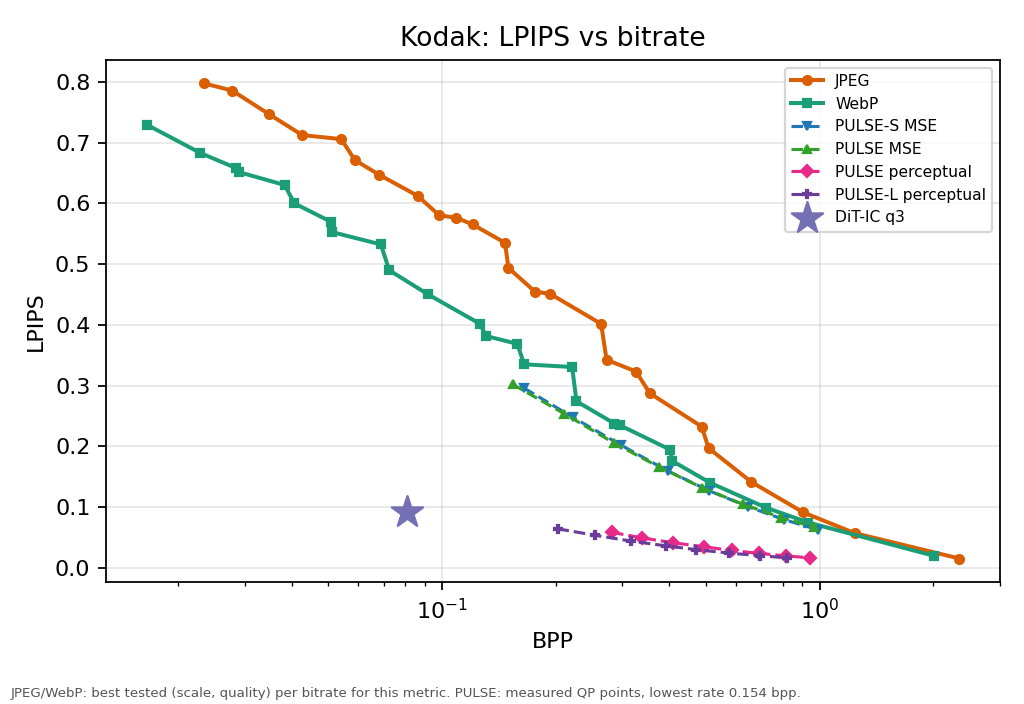
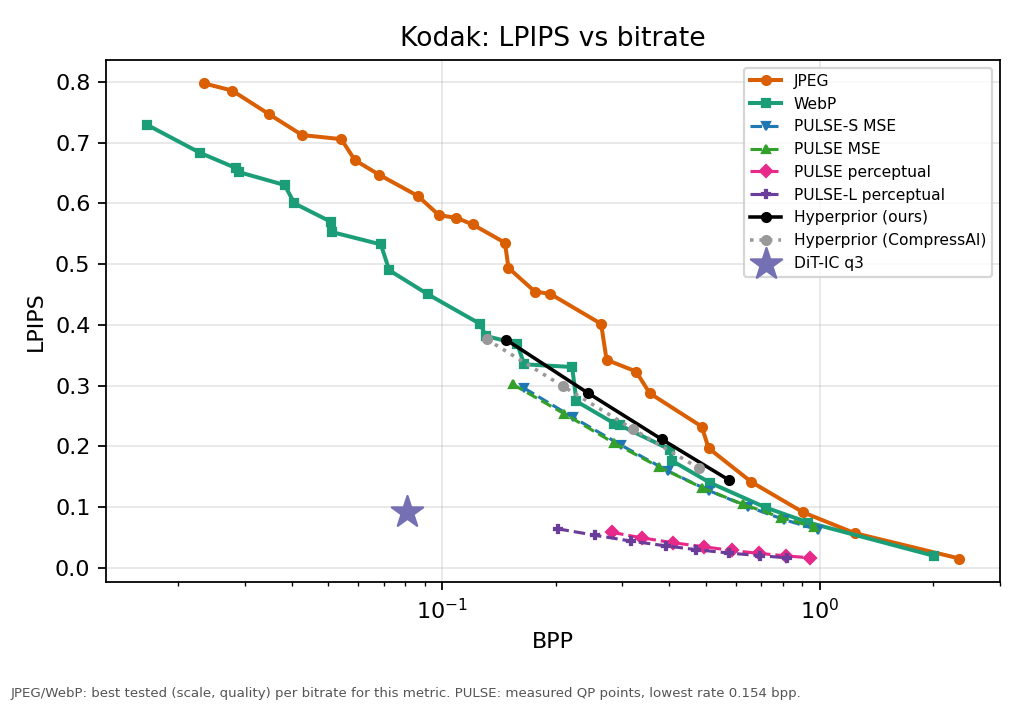
Add the scale-hyperprior curves to the rate-distortion plots

diff --git a/src/scripts/make_plots.py b/src/scripts/make_plots.py
@@ -2,6 +2,8 @@
 
 When src/result/metrics/pulse_kodak_summary.csv exists (src/scripts/run_pulse.py),
 the four PULSE models are added to the rate-distortion plots as QP curves.
+When src/result/metrics/hyperprior_kodak_summary.csv exists
+(src/scripts/run_hyperprior.py), the scale-hyperprior curves are added too.
 """
 
 from __future__ import annotations
@@ -47,6 +49,14 @@ PULSE_STYLES = {
     "pulse-l-perceptual": dict(color="#6a3d9a", marker="P", label="PULSE-L perceptual"),
 }
 PULSE_SUMMARY = METRICS_DIR / "pulse_kodak_summary.csv"
+
+# Scale hyperprior from src/scripts/run_hyperprior.py: trained by us, and the
+# official CompressAI weights of the same architecture as a reference.
+HYPERPRIOR_STYLES = {
+    "hyperprior-ours": dict(color="#000000", marker="o", linestyle="-", label="Hyperprior (ours)"),
+    "hyperprior-zoo": dict(color="#999999", marker="o", linestyle=":", label="Hyperprior (CompressAI)"),
+}
+HYPERPRIOR_SUMMARY = METRICS_DIR / "hyperprior_kodak_summary.csv"
 
 
 def read_csv(path: Path) -> list[dict]:
@@ -95,6 +105,16 @@ def main() -> None:
         pulse_rows = {model: rows for model, rows in pulse_rows.items() if rows}
     pulse_min_bpp = min((float(r["bpp"]) for rows in pulse_rows.values() for r in rows), default=0.0)
 
+    # Hyperprior is optional as well; one curve per codec, points ordered by lambda.
+    hyperprior_rows = {}
+    if HYPERPRIOR_SUMMARY.exists():
+        all_hyperprior = read_csv(HYPERPRIOR_SUMMARY)
+        hyperprior_rows = {
+            codec: sorted((r for r in all_hyperprior if r["codec"] == codec), key=lambda r: float(r["lmbda"]))
+            for codec in HYPERPRIOR_STYLES
+        }
+        hyperprior_rows = {codec: rows for codec, rows in hyperprior_rows.items() if rows}
+
     # ---- Rate-distortion plots -------------------------------------------
     for metric, (label, higher_is_better) in METRIC_LABELS.items():
         fig, ax = plt.subplots(figsize=(6.4, 4.4))
@@ -112,6 +132,14 @@ def main() -> None:
                 markersize=4,
                 **PULSE_STYLES[model],
             )
+        for codec, rows in hyperprior_rows.items():
+            ax.plot(
+                [float(r["bpp"]) for r in rows],
+                [float(r[metric]) for r in rows],
+                linewidth=1.6,
+                markersize=4,
+                **HYPERPRIOR_STYLES[codec],
+            )
         ax.scatter(
             [dit_bpp],
             [dit_metrics[metric]],
@@ -125,7 +153,7 @@ def main() -> None:
         ax.set_ylabel(label)
         ax.set_xscale("log")
         ax.grid(True, alpha=0.3)
-        ax.legend(fontsize=7 if pulse_rows else None)
+        ax.legend(fontsize=7 if (pulse_rows or hyperprior_rows) else None)
         ax.set_title(f"Kodak: {label} vs bitrate")
         if pulse_rows:
             # The two kinds of curves are built differently; say so on the figure.
